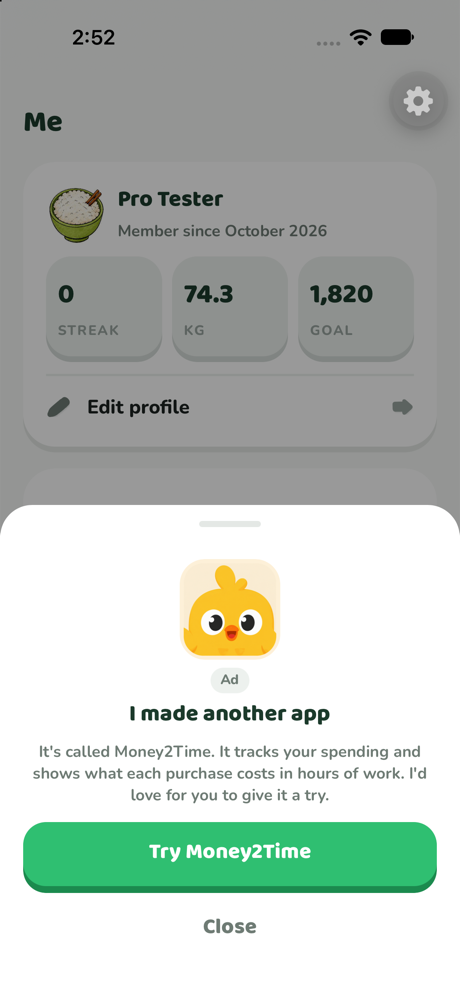
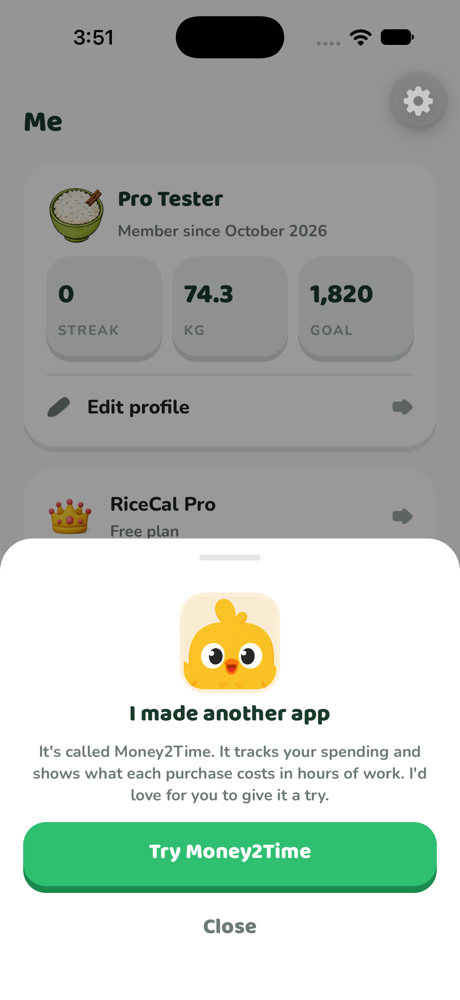
Drop the Ad badge from the Money2Time sheet and shorten long card subtitles
The sheet is only reached from a card that is already marked "Ad", so the
badge there was a repeat. The card subtitle is one line at half the screen's
width, and the Malay, Filipino, Bengali and Tamil lines were long enough to be
cut off, so they are shorter.

Changed region(s): [[0.0, 0.496, 1.0, 0.713], [0.3652, 0.0, 0.6391, 0.062], [0.1522, 0.031, 0.2435, 0.062]]

diff --git a/apps/mobile/app/(tabs)/me.tsx b/apps/mobile/app/(tabs)/me.tsx
@@ -221,12 +221,12 @@ export default function MeScreen() {
           section of the screen. */}
       <View className="gap-2.5">
         {/* `py-2` because the row brings its own vertical padding, and on top of
-          the card's it left a band of empty card above and below one line. */}
+            the card's it left a band of empty card above and below one line. */}
         <Card contentClassName="gap-0 py-2">
           {/* Somebody who has never paid has nothing to manage. The subscription
-            screen is a plan, a renewal date and a way to cancel; for them it
-            was three cards of "none" wrapped around a button to the paywall,
-            so they go straight to the paywall instead. */}
+              screen is a plan, a renewal date and a way to cancel; for them it
+              was three cards of "none" wrapped around a button to the paywall,
+              so they go straight to the paywall instead. */}
           <ListRow
             title={t('profile:home.pro')}
             subtitle={planLine}
@@ -238,9 +238,9 @@ export default function MeScreen() {
           />
         </Card>
 
-        {/* Free accounts only (see `showFreeOffers`). Share & Earn
-          is the way to Pro without paying, beside the Pro row that sells it;
-          the Money2Time card is the ad Money2Time runs for RiceCal in return. */}
+        {/* Free accounts only (see `showFreeOffers`). Share & Earn is the way to
+            Pro without paying, beside the Pro row that sells it; the Money2Time
+            card is the ad Money2Time runs for RiceCal in return. */}
         {showFreeOffers ? (
           <View className="flex-row gap-2.5">
             <Card

diff --git a/apps/mobile/src/features/settings/Money2TimeSheet.tsx b/apps/mobile/src/features/settings/Money2TimeSheet.tsx
@@ -4,7 +4,7 @@ import { useTranslation } from 'react-i18next'
 import { Platform, View } from 'react-native'
 
 import { track } from '@/lib/analytics'
-import { Badge, Button, Sheet, Text, useToast } from '@/ui'
+import { Button, Sheet, Text, useToast } from '@/ui'
 import { MONEY2TIME_LOGO, money2TimeStoreUrl } from './money2time'
 
 export type Money2TimeSheetProps = {
@@ -56,10 +56,6 @@ export function Money2TimeSheet({ visible, onClose }: Money2TimeSheetProps) {
           transition={0}
           accessibilityLabel={t('profile:money2time.name')}
         />
-        {/* `Badge` sets its own `self-start`, which beats this column's `items-center`. */}
-        <Badge tone="neutral" size="sm" className="self-center">
-          {t('profile:money2time.ad')}
-        </Badge>
         <Text variant="subtitle" className="text-center">
           {t('profile:money2time.title')}
         </Text>

diff --git a/apps/mobile/src/i18n/ta.ts b/apps/mobile/src/i18n/ta.ts
@@ -1169,7 +1169,7 @@ export const ta = {
     money2time: {
       name: 'Money2Time',
       ad: 'விளம்பரம்',
-      card: 'உங்கள் செலவைக் கண்காணியுங்கள்',
+      card: 'செலவுக் கண்காணிப்பு',
       title: 'நான் இன்னொரு ஆப் உருவாக்கினேன்',
       body: 'அதன் பெயர் Money2Time. இது உங்கள் செலவைக் கண்காணித்து, ஒவ்வொரு வாங்குதலும் எத்தனை மணி நேர உழைப்பு என்று காட்டும். ஒருமுறை முயன்று பாருங்கள்.',
       action: 'Money2Time-ஐ முயலுங்கள்',

diff --git a/apps/mobile/src/i18n/bn.ts b/apps/mobile/src/i18n/bn.ts
@@ -1153,7 +1153,7 @@ export const bn = {
     money2time: {
       name: 'Money2Time',
       ad: 'বিজ্ঞাপন',
-      card: 'আপনার খরচ ট্র্যাক করুন',
+      card: 'খরচ ট্র্যাক করুন',
       title: 'আমি আরেকটি অ্যাপ বানিয়েছি',
       body: 'এর নাম Money2Time। এটি আপনার খরচ ট্র্যাক করে এবং দেখায় প্রতিটি কেনাকাটা কত ঘণ্টার কাজের সমান। একবার চেষ্টা করে দেখুন।',
       action: 'Money2Time চেষ্টা করুন',

diff --git a/apps/mobile/src/i18n/fil.ts b/apps/mobile/src/i18n/fil.ts
@@ -1191,7 +1191,7 @@ export const fil = {
     money2time: {
       name: 'Money2Time',
       ad: 'Ad',
-      card: 'I-track ang gastos mo',
+      card: 'I-track ang gastos',
       title: 'Gumawa ako ng isa pang app',
       body: 'Money2Time ang pangalan nito. Itinatala nito ang gastos mo at ipinapakita kung ilang oras ng trabaho ang bawat binili. Sana subukan mo.',
       action: 'Subukan ang Money2Time',

diff --git a/apps/mobile/src/i18n/ms.ts b/apps/mobile/src/i18n/ms.ts
@@ -1195,7 +1195,7 @@ export const ms = {
     money2time: {
       name: 'Money2Time',
       ad: 'Iklan',
-      card: 'Jejak perbelanjaan anda',
+      card: 'Jejak perbelanjaan',
       title: 'Saya buat satu lagi apl',
       body: 'Namanya Money2Time. Ia menjejak perbelanjaan anda dan menunjukkan berapa jam kerja setiap pembelian. Saya harap anda mencubanya.',
       action: 'Cuba Money2Time',
